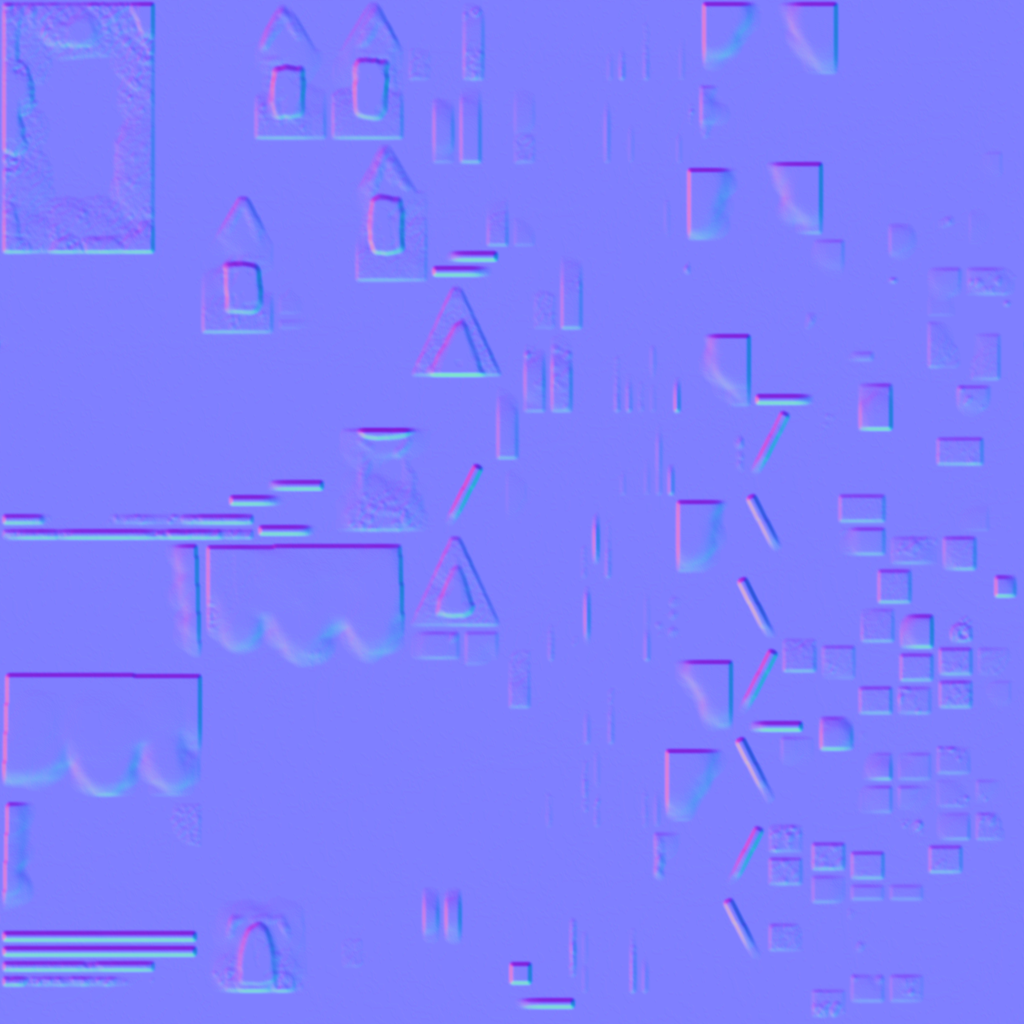
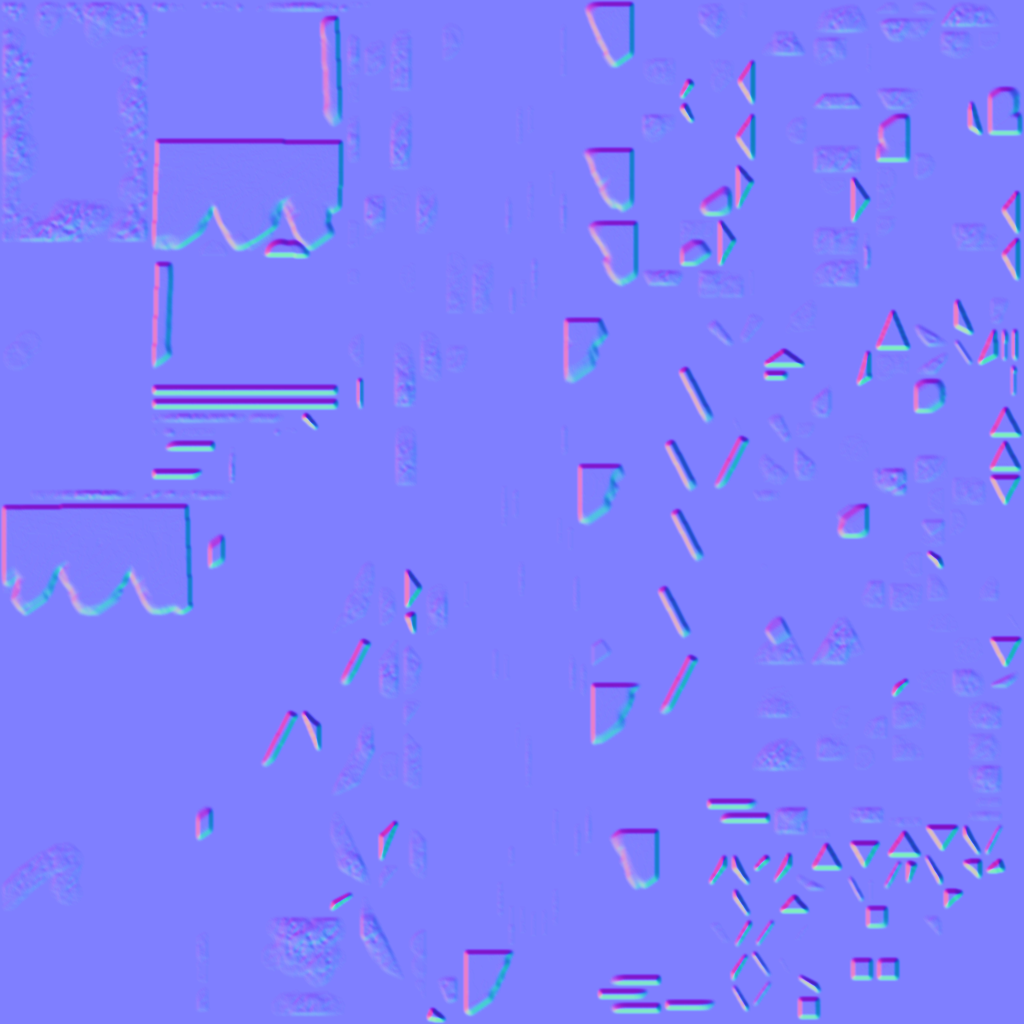
Add RMB camera rotation, screen-relative controls, and hero assets

diff --git a/src/core/scene.js b/src/core/scene.js
@@ -13,6 +13,13 @@ export class SceneManager {
 
     // Ортографическая изометрическая камера
     this.camera = new THREE.OrthographicCamera(-22, 22, 22, -22, 0.1, 200);
+    this.cameraDistance = Math.hypot(45, 45); // ~63.6396
+    this.cameraElevation = 60;
+    this.cameraAngle = Math.PI / 4;
+    this.targetCameraAngle = Math.PI / 4;
+    this.isRotating = false;
+    this.lastMouseX = 0;
+
     this.cameraOffset = new THREE.Vector3(45, 60, 45);
     this.cameraTarget = new THREE.Vector3(0, 0, 0);
     this.desiredTarget = new THREE.Vector3(0, 0, 0);
@@ -87,6 +94,54 @@ export class SceneManager {
     window.addEventListener('wheel', (e) => {
       this.setZoom(this.zoomLevel * Math.exp(-e.deltaY * 0.0012));
     }, { passive: true });
+
+    // Отключаем всплывающее меню браузера при клике ПКМ по игре
+    window.addEventListener('contextmenu', (e) => {
+      if (e.target === this.renderer.domElement || this.container.contains(e.target)) {
+        e.preventDefault();
+      }
+    });
+
+    // Вращение камеры при зажатии правой кнопки мыши (ПКМ)
+    window.addEventListener('pointerdown', (e) => {
+      if (e.button === 2) {
+        if (this.game?.editor?.active && this.game?.editor?.mode !== 'select') {
+          return; // В редакторе ПКМ стирает объекты
+        }
+        if (e.target === this.renderer.domElement || this.container.contains(e.target)) {
+          this.isRotating = true;
+          this.lastMouseX = e.clientX;
+          this.renderer.domElement.style.cursor = 'grabbing';
+          e.preventDefault();
+        }
+      } else if (e.button === 1) { // Клик колесиком мыши (СКМ) сбрасывает угол к стандартному
+        if (e.target === this.renderer.domElement || this.container.contains(e.target)) {
+          this.targetCameraAngle = Math.PI / 4;
+        }
+      }
+    });
+
+    window.addEventListener('pointermove', (e) => {
+      if (this.isRotating) {
+        const deltaX = e.clientX - this.lastMouseX;
+        this.lastMouseX = e.clientX;
+        this.targetCameraAngle -= deltaX * 0.006;
+      }
+    });
+
+    const stopRotation = () => {
+      if (this.isRotating) {
+        this.isRotating = false;
+        if (this.renderer?.domElement) {
+          this.renderer.domElement.style.cursor = '';
+        }
+      }
+    };
+
+    window.addEventListener('pointerup', (e) => {
+      if (e.button === 2) stopRotation();
+    });
+    window.addEventListener('blur', stopRotation);
   }
 
   handleResize() {
@@ -151,6 +206,18 @@ export class SceneManager {
   updateCameraTracking(targetPos, dt) {
     this.desiredTarget.set(targetPos.x, 0, targetPos.z);
     this.cameraTarget.lerp(this.desiredTarget, 1 - Math.exp(-4.5 * dt));
+
+    // Плавное следование за целевым углом вращения
+    const angleDiff = this.targetCameraAngle - this.cameraAngle;
+    this.cameraAngle += angleDiff * (1 - Math.exp(-18 * dt));
+
+    const r = this.cameraDistance;
+    this.cameraOffset.set(
+      Math.sin(this.cameraAngle) * r,
+      this.cameraElevation,
+      Math.cos(this.cameraAngle) * r
+    );
+
     this.camera.position.copy(this.cameraOffset).add(this.cameraTarget);
     this.camera.lookAt(this.cameraTarget);
   }

diff --git a/src/main.js b/src/main.js
@@ -4,13 +4,13 @@
 import { GAME_DESIGN } from './config/index.js';
 import { gameState } from './state/gameState.js';
 import { input } from './core/input.js';
-import { SceneManager } from './core/scene.js?v=render-batches-5';
+import { SceneManager } from './core/scene.js?v=camera-rot-1';
 import { GraveyardMap } from './entities/map.js?v=map-settings-1';
-import { Player } from './entities/player.js?v=soft-flashlight-1';
+import { Player } from './entities/player.js?v=camera-rot-1';
 import { Decorations } from './entities/decorations.js?v=cpu-static-1';
 import { FogMistManager } from './entities/fogMist.js?v=render-batches-6';
 import { hud } from './ui/hud.js';
-import { MapEditor } from './entities/mapEditor.js?v=batch-settings-1';
+import { MapEditor } from './entities/mapEditor.js?v=camera-rot-1';
 
 // Экспорт в window для удобной отладки в консоли браузера
 window.GAME_DESIGN = GAME_DESIGN;
@@ -21,6 +21,7 @@ class Game {
   constructor() {
     const container = document.querySelector('#game-canvas-container');
     this.sceneManager = new SceneManager(container);
+    this.sceneManager.game = this;
     this.map = new GraveyardMap(this.sceneManager.scene);
     this.player = new Player(this.sceneManager.scene);
     this.fogMist = new FogMistManager(this.sceneManager.scene, 56);
@@ -96,7 +97,7 @@ class Game {
 
     // Обновление состояния персонажа
     if (this.editor.active) this.editor.update(dt, inputData);
-    else this.player.update(inputData, this.boundLimit, dt, this.decorations);
+    else this.player.update(inputData, this.boundLimit, dt, this.decorations, this.sceneManager.cameraAngle);
 
     // Обновление анимаций карты (пульсация святыни)
     this.map.update(now);

diff --git a/src/entities/mapEditor.js b/src/entities/mapEditor.js
@@ -201,5 +201,5 @@ export class MapEditor {
   mutate(change){if(!this.selected)return;const d=this.game.decorations;if(this.selected.entry){const entry=this.selected.entry,o=entry.object;if(change.x!==undefined)o.position.x=change.x;if(change.z!==undefined)o.position.z=change.z;if(change.scale!==undefined)o.scale.setScalar(change.scale);if(change.rotation!==undefined)o.rotation.y=change.rotation;d.syncCollider(entry);}else{const state={...this.grassState(),...change};d.setGrass(this.selected.grass,state,!!this.selected.painted);}this.showSelection();}
   rotate(){if(!this.selected)return;const rotation=this.selected.entry?this.selected.entry.object.rotation.y:this.grassState().rotation;this.mutate({rotation:rotation+Math.PI/2});}
   remove(){if(!this.selected)return;if(this.selected.entry){this.selected.entry.object.visible=false;this.game.decorations.syncCollider(this.selected.entry);}else this.mutate({scale:0});this.selected=null;this.marker.visible=false;this.status.textContent='Объект удалён.';}
-  update(dt,input){if(!this.active)return;const speed=9*dt,limit=this.game.map.halfField-1;this.focus.x=THREE.MathUtils.clamp(this.focus.x+(input.screenX-input.screenY)*0.7071*speed,-limit,limit);this.focus.z=THREE.MathUtils.clamp(this.focus.z+(-input.screenX-input.screenY)*0.7071*speed,-limit,limit);}
+  update(dt,input){if(!this.active)return;const speed=9*dt,limit=this.game.map.halfField-1;const camAngle=this.game.sceneManager?.cameraAngle??(Math.PI/4);const sinA=Math.sin(camAngle),cosA=Math.cos(camAngle);const dx=(input.screenX*cosA-input.screenY*sinA)*speed;const dz=(-input.screenX*sinA-input.screenY*cosA)*speed;this.focus.x=THREE.MathUtils.clamp(this.focus.x+dx,-limit,limit);this.focus.z=THREE.MathUtils.clamp(this.focus.z+dz,-limit,limit);}
 }

diff --git a/src/entities/player.js b/src/entities/player.js
@@ -87,7 +87,7 @@ export class Player {
     this.group.add(light);
   }
 
-  update(inputData, boundLimit, dt, obstacles) {
+  update(inputData, boundLimit, dt, obstacles, cameraAngle = Math.PI / 4) {
     const { screenX, screenY, isMoving, isRunning } = inputData;
     if (!isMoving) {
       this.animationTime = 0;
@@ -102,8 +102,12 @@ export class Player {
     const len = Math.hypot(screenX, screenY);
     if (!len) return;
     const speed = isRunning ? HEROINE_CONFIG.runSpeed : HEROINE_CONFIG.walkSpeed;
-    const dx = (screenX - screenY) / len * 0.70710678 * speed * dt;
-    const dz = (-screenX - screenY) / len * 0.70710678 * speed * dt;
+    const sinA = Math.sin(cameraAngle);
+    const cosA = Math.cos(cameraAngle);
+    const nx = screenX / len;
+    const ny = screenY / len;
+    const dx = (nx * cosA - ny * sinA) * speed * dt;
+    const dz = (-nx * sinA - ny * cosA) * speed * dt;
     // Small steps prevent fast movement from tunnelling through narrow fences.
     const steps = Math.max(1, Math.ceil(Math.hypot(dx, dz) / 0.1));
     for (let i = 0; i < steps; i++) {

diff --git a/serve.js b/serve.js
@@ -7,7 +7,7 @@ import { fileURLToPath } from 'url';
 const __filename = fileURLToPath(import.meta.url);
 const __dirname = path.dirname(__filename);
 
-const PORT = 3000;
+const PORT = 5173;
 
 const MIME_TYPES = {
   '.html': 'text/html; charset=utf-8',

diff --git a/game.html b/game.html
@@ -127,6 +127,6 @@
   </script>
 
   <!-- Точка входа игры -->
-  <script type="module" src="./src/main.js?v=cpu-static-1"></script>
+  <script type="module" src="./src/main.js?v=camera-rot-1"></script>
 </body>
 </html>
